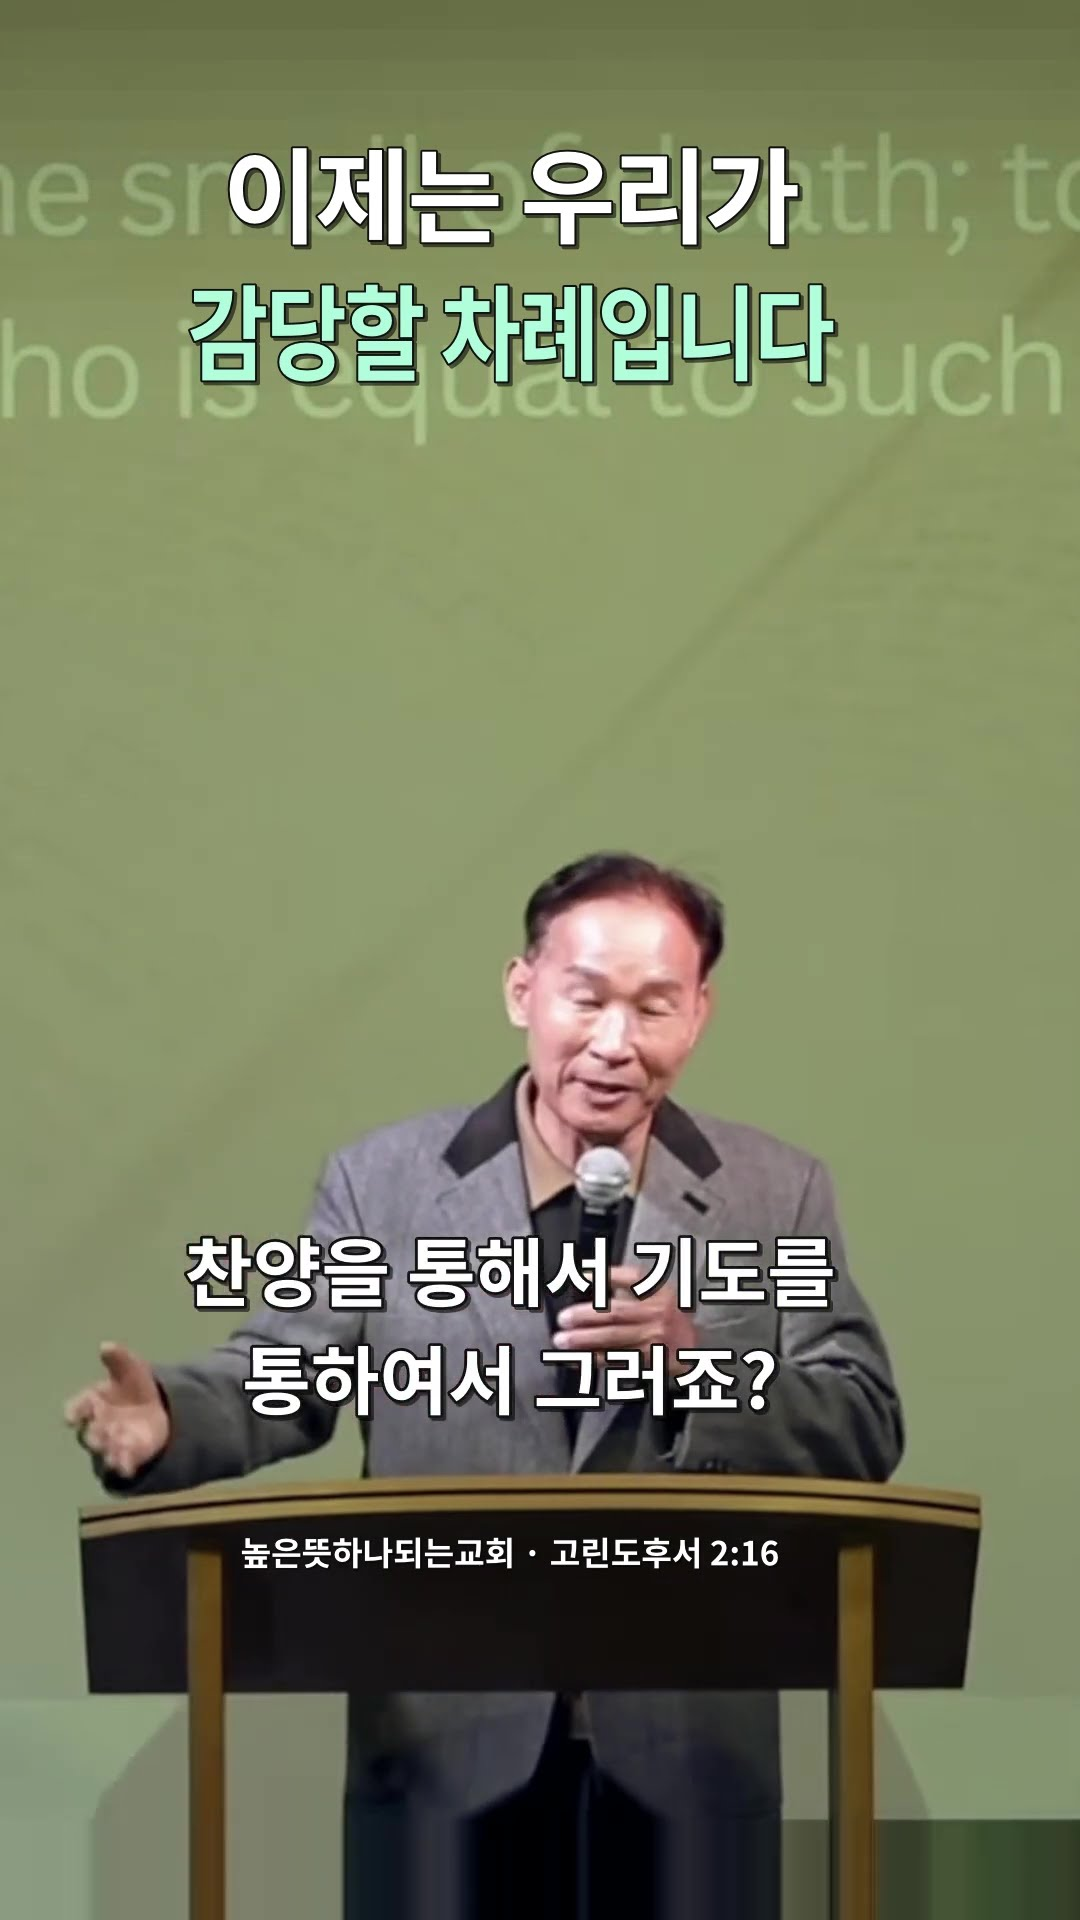
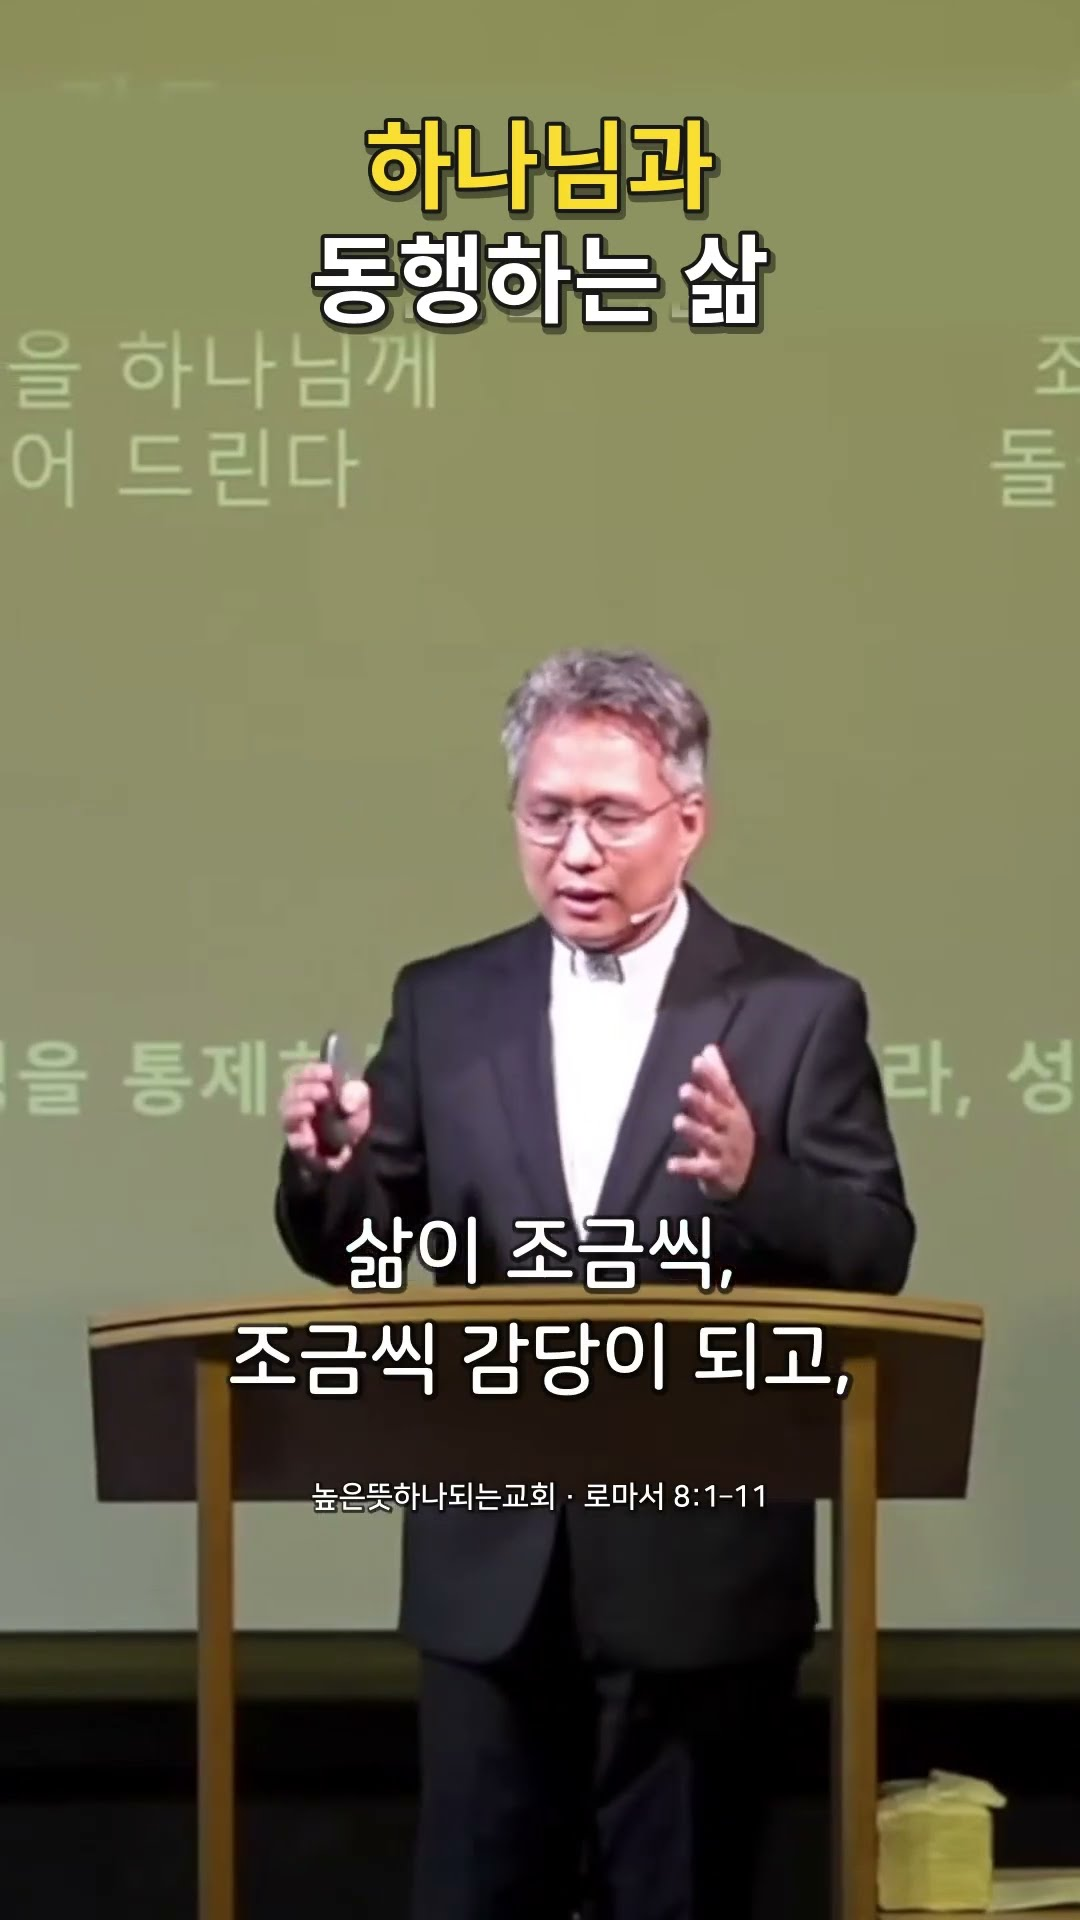
설교 영상 자동 갱신

diff --git a/index.html b/index.html
@@ -158,14 +158,14 @@
         </div>
         <div class="latest latest-short">
 <!-- shorts:start (매주 자동 갱신 — .github/scripts/update_sermon.py) -->
-          <a class="thumb thumb-short" href="https://www.youtube.com/shorts/cGale4_h_0A" target="_blank" rel="noopener" aria-label="설교 숏츠 보기 (유튜브)">
-            <img class="thumb-img" src="images/shorts-thumb.jpg?v=cGale4_h_0A" alt="" loading="lazy" onload="this.parentNode.classList.add('has-img')" onerror="this.remove()">
+          <a class="thumb thumb-short" href="https://www.youtube.com/shorts/6_td5on_v4k" target="_blank" rel="noopener" aria-label="설교 숏츠 보기 (유튜브)">
+            <img class="thumb-img" src="images/shorts-thumb.jpg?v=6_td5on_v4k" alt="" loading="lazy" onload="this.parentNode.classList.add('has-img')" onerror="this.remove()">
             <span class="thumb-date">1분 메시지</span>
-            <strong>이제는 우리가 감당할 차례입니다.</strong>
+            <strong>하나님과 동행하는 삶</strong>
             <span class="thumb-meta">높은뜻 하나되는 교회</span>
             <span class="play" aria-hidden="true"><svg width="22" height="22" viewBox="0 0 24 24"><path d="M8 5v14l11-7z" fill="currentColor"/></svg></span>
           </a>
-          <h2 class="latest-title">[1분 메시지] 이제는 우리가 감당할 차례입니다.</h2>
+          <h2 class="latest-title">[1분 메시지] 하나님과 동행하는 삶</h2>
 <!-- shorts:end -->
           <div class="latest-btns"><a class="more more-pill" href="https://www.youtube.com/@Godwillhanachurch/shorts" target="_blank" rel="noopener">1분 메시지 더보기</a></div>
         </div>
